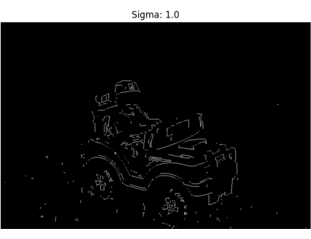
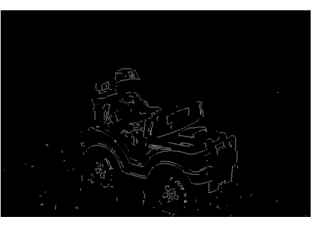
Detect and drop sparse text bands just above dense content in split images
The previous fixed title_pad=12 was too coarse for edge maps and other mostly-
dark subplots: any leading text band (suptitle, plt.suptitle output, OCR print
echo) would slip through because the pad simply used the first dense row as
its anchor.

The new scan looks at the rows just above the first dense block and treats
density in 0.03..0.30 as a text band. If a text band is present right above
the dense content it is removed; otherwise the original dense row anchor is
used. This drops the leading print()/suptitle rows reliably while still
preserving the per-subplot title that sits flush against the content.

diff --git a/convert.py b/convert.py
@@ -263,15 +263,41 @@ def split_grid_image(image_path: Path) -> list[tuple[Path, str]]:
             cropped = img.crop((0, a0, img.width, a1))
 
         # Trim out any stray title/OCR text that bleeds into the part. The
-        # per-subplot title sits just above the dense content (within ~12 px),
-        # so a small top pad keeps it visible while cutting off the suptitle
-        # and OCR print() output that sits well above the first dense block.
+        # per-subplot title (when present in the image) sits RIGHT against the
+        # top of the dense content, so a small top pad keeps it while dropping
+        # any suptitle/OCR text rows that appear above it. We also remove
+        # any text band detected just above the dense content.
         cropped_gray = np.array(cropped.convert("L"))
         y0, y1 = _trim_content_rows(cropped_gray)
-        title_pad = 12  # enough for per-subplot title text, drops suptitle
-        y0_padded = max(0, y0 - title_pad)
-        if y1 - y0_padded > 20:
-            cropped = cropped.crop((0, y0_padded, cropped.width, y1))
+
+        # Look for any text band (sparse dark rows) sitting between (y0 - 30)
+        # and y0. If found, trim everything above the start of that band.
+        dark_mask = cropped_gray < (WHITE_THRESHOLD - 60)
+        h_local, w_local = cropped_gray.shape
+        row_density = dark_mask.sum(axis=1) / max(1, w_local)
+
+        # Find the topmost dense row (y0) and check rows just above it for any
+        # text-like content. If rows just above are sparse text, drop them.
+        scan_top = max(0, y0 - 40)
+        text_band_start = scan_top
+        for y in range(scan_top, y0):
+            if 0.03 < row_density[y] < 0.30:
+                text_band_start = y
+            elif row_density[y] == 0.0:
+                continue
+            else:
+                # Either dense or blank — stop scanning up.
+                break
+        # Keep tiny top padding only if there's text immediately above content
+        # (i.e. the per-subplot title).
+        if text_band_start < y0 and row_density[text_band_start:y0].mean() > 0.05:
+            # Per-subplot title present — keep a few px of it.
+            keep_top = max(text_band_start, y0 - 6)
+        else:
+            keep_top = y0
+
+        if y1 - keep_top > 20:
+            cropped = cropped.crop((0, keep_top, cropped.width, y1))
 
         # Add a small top margin to keep the subplot title visible.
         cw, ch = cropped.size
